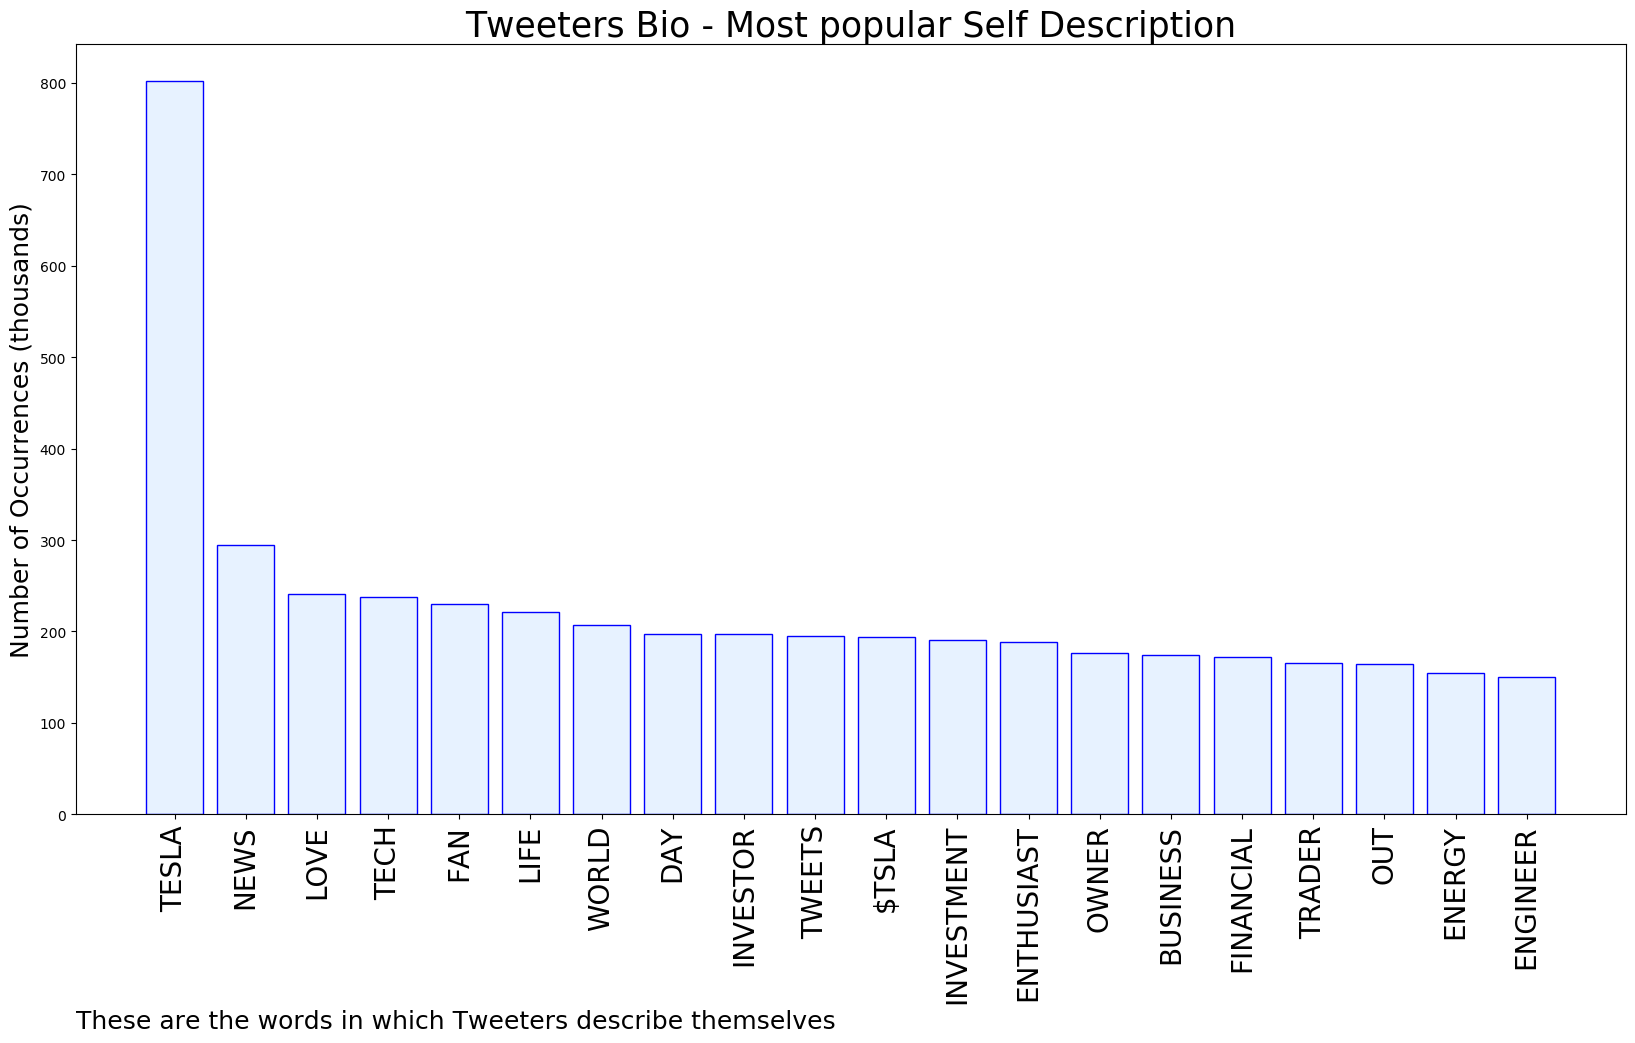
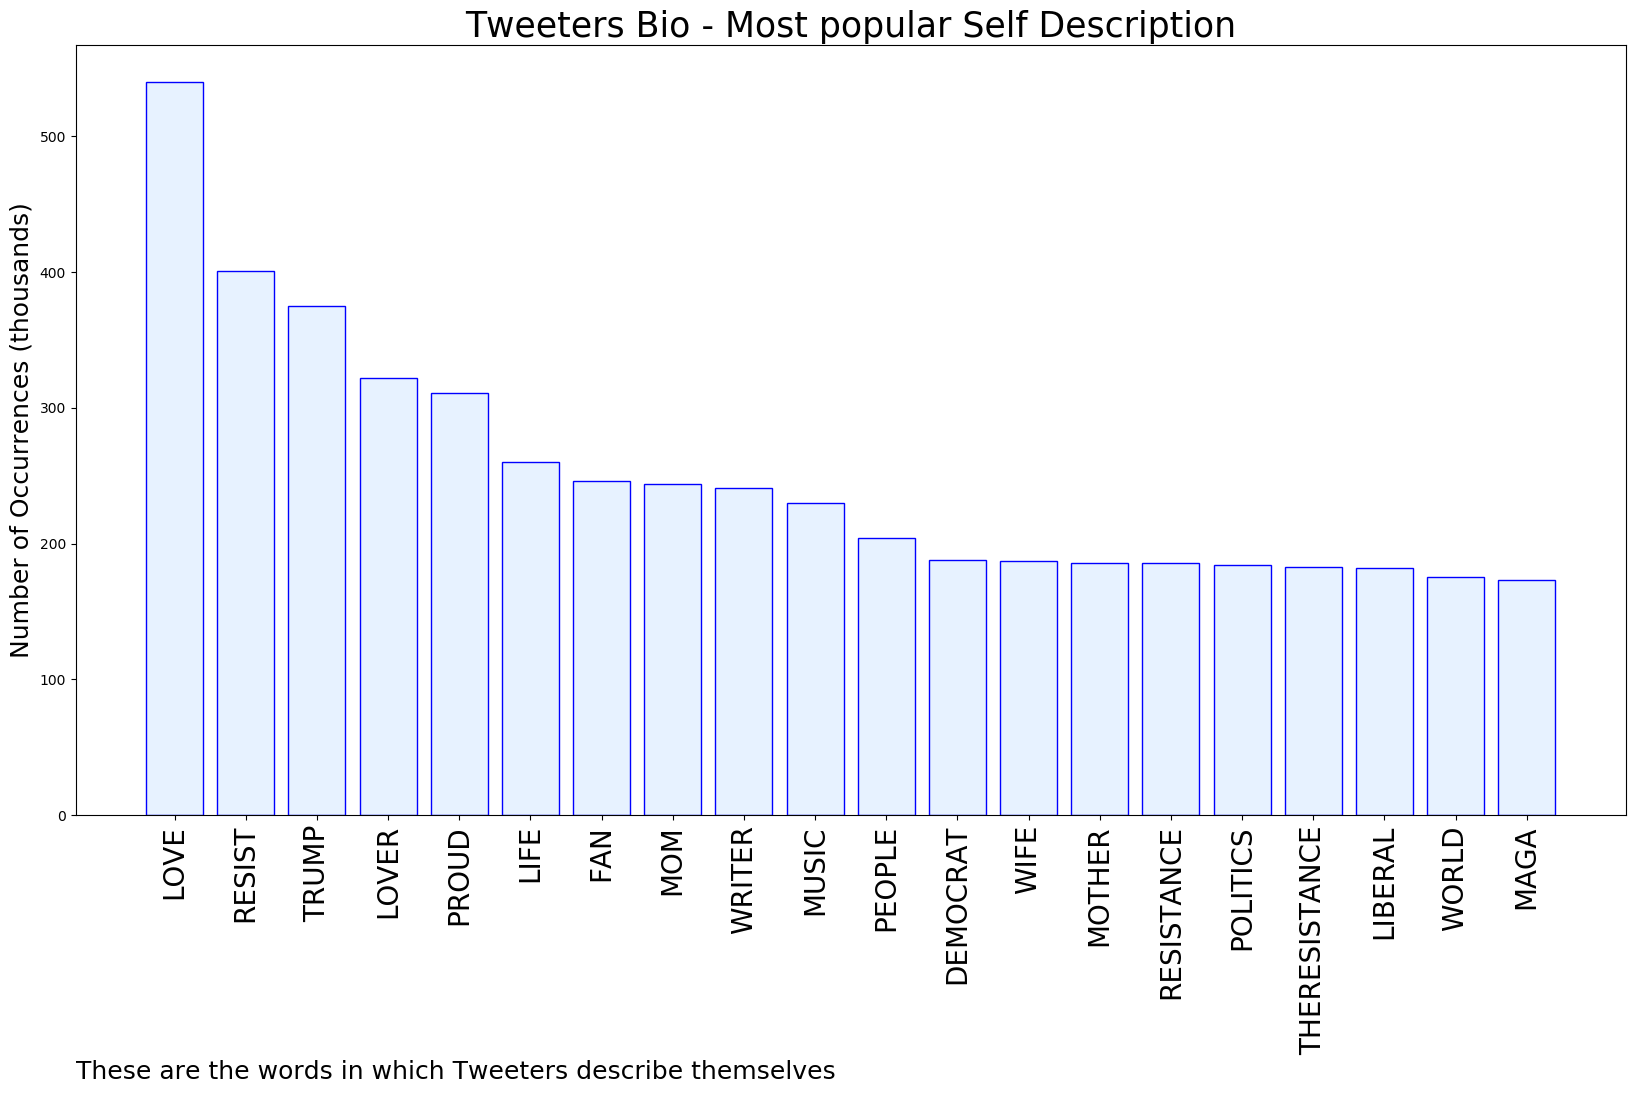
Updating with latest report

diff --git a/README.md b/README.md
@@ -1,5 +1,5 @@
 # MURCHIE85 TWITTER PROCESSING 
-&#x1F34E; **TOPIC = "Tesla"**
+&#x1F34E; **TOPIC = "#MichiganProtest"**
 
 ## AUTOMATED RESEARCH SUMMARY
 
@@ -15,22 +15,22 @@
 
 |                **Sample-Tweets**        |
 | :-------------: |
-| RT @james_m_wilt: Elon Musk has always been vehemently anti-worker. The Tesla factory is a hotbed of union-busting, unsafe working conditio… |
-| RT @PrisonPlanet: Tesla CEO Elon Musk is calling for coronavirus lockdowns to be eased and America to be re-opened, asserting, “give people… |
-| $TSLA Tesla posts Q1 revenue at $5.99B, up 32% YoY https://t.co/IR84BN5Zxz Tesla Inc. reported on Wednesday its fir… https://t.co/4QkXALme6x |
+| Tell the world #michiganterrorists do NOT represent America  #michiganprotest #COVID__19 https://t.co/qh4ekvsovt |
+| RT @johnpavlovitz: Cowards with guns will never overcome decent people armed with courage.#MichiganProtest #VoteBlue |
+| RT @effingrandy1: I was in the army in a combat zone and I rarely had this much equipment on 🙄 When beta males play army #MichiganProtest |
 
-The most popular user is: **Samalisha4**
-<div class="alert alert-block alert-danger"> RT @DavidDobrik: Zane finding out he didn’t win the Tesla giveaway Hahahah https://t.co/oTBQMSUMzw</div>
+The most popular user is: **Coach65763968**
+<div class="alert alert-block alert-danger"> RT @danaolitaogden: My honest opinion on these idiots protesting while my husband is preparing the States refrigerated body truck fleet.  #…</div>
 
 ## RELATED METRICS<br>
 | Metric | Value |
 | ------------- | ------------- |
-| #1 Most tweeted to  | **elonmusk** |
-| #2 Most tweeted to  | **Tesla** |
-| #3 Most tweeted to  | **thirdrowtesla** |
-| NewProfiles (less than 10 days) | 0.74%  |
-| Tweeters with < 10 followers  | 4.38%|
-| Tweeters with > 1000000 followers  | 0.29%  |
+| #1 Most tweeted to  | **mmpadellan** |
+| #2 Most tweeted to  | **cmclymer** |
+| #3 Most tweeted to  | **PalmerReport** |
+| NewProfiles (less than 10 days) | 0.52%  |
+| Tweeters with < 10 followers  | 3.01%|
+| Tweeters with > 1000000 followers  | 0.0%  |
 
 
 
@@ -39,11 +39,11 @@ The most popular user is: **Samalisha4**
 
 | Popularity Rank  | Term |
 | ------------- | ------------- |
-| first  | **TESLA**  |
-| second  | **ELON**  |
-| third  | **MUSK** |
-| fourth  | **Q1**  |
-| fifth  | **PROFIT**  |
+| first  | **ARMED**  |
+| second  | **MICHIGANPROTEST**  |
+| third  | **BUILDING** |
+| fourth  | **"IM"**  |
+| fifth  | **STATE**  |
 
 
 ## Twitter Bio Analysis![image](BIO.png)
@@ -54,13 +54,13 @@ VIEWS WERE : **SUBJECTIVE**  (33.33%) & **NEGATIVELY-SUBJECTIVE** (20.0%) **OBJE
 ### TWEET SAMPLE 
 | Random value picked from array |
 | ------------- |
-|RT @SamTalksTesla: Watching @Gfilche on @HyperChangeTV. Amazing stuff. This guy knows Tesla better than anyone! If I don't tweet for a whil… |
+|RT @LeoLawGirl: @GunsDownAmerica ARREST THE MEMBERS OF  "#MichiganProtest"  NOW!!! This is not protest, it is terrorism and willful endange… |
 
 ### MOST RETWEETED 
 
-| The most retweeted user is: **Samalisha4**  |
+| The most retweeted user is: **Coach65763968**  |
 | ------------- |
-| RT @DavidDobrik: Zane finding out he didn’t win the Tesla giveaway Hahahah https://t.co/oTBQMSUMzw |
+| RT @danaolitaogden: My honest opinion on these idiots protesting while my husband is preparing the States refrigerated body truck fleet.  #… |
 
 ### CONCLUSION & EXTERNAL ANALYSIS
 
